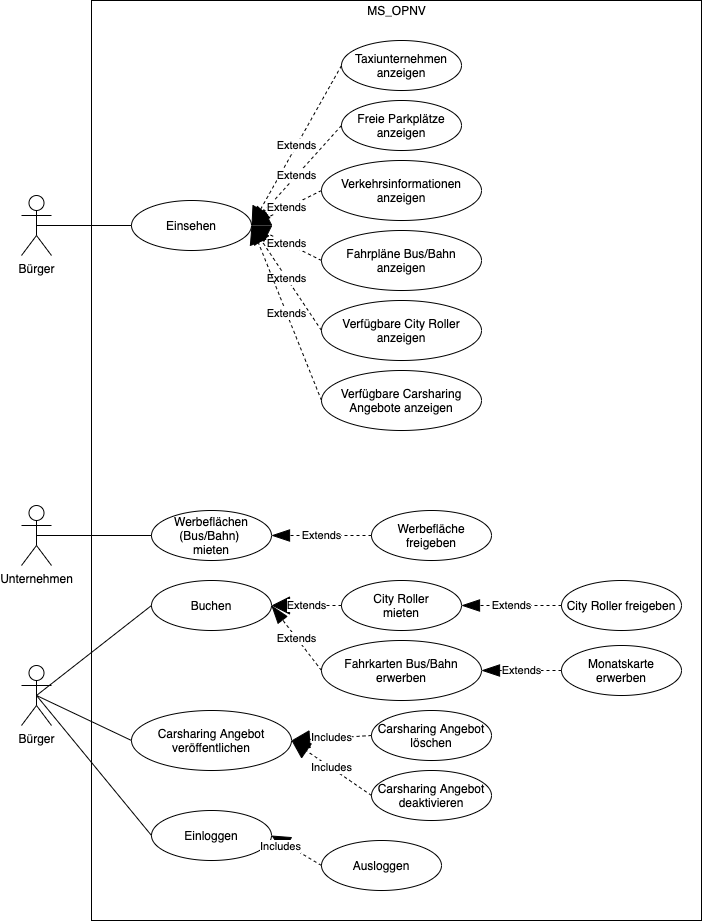
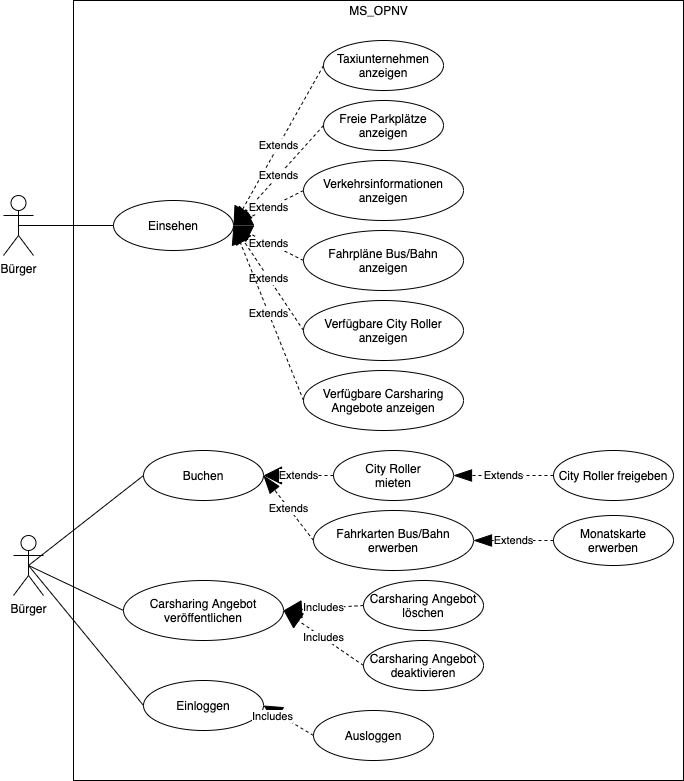
add Mockups, SoftwareArch

diff --git a/docs/alexander_bergmann/Spezifikation_OPNV.md b/docs/alexander_bergmann/Spezifikation_OPNV.md
@@ -27,7 +27,7 @@ Ziel dieses Microservices ist die Bereitstellung einer einheitlichen Plattform i
 
 ## 2.2 Funktionale Anforderungen
 
-![UseCases Rettungsdienst](./img/UseCase.png)
+![UseCases Rettungsdienst](img/UseCase.png)
 
 
 
@@ -35,14 +35,17 @@ Ziel dieses Microservices ist die Bereitstellung einer einheitlichen Plattform i
 
 ### 2.3.1 Rahmenbedingungen
 
-```java
-// TODO: Normen, Standards, Protokolle, Hardware, externe Vorgaben
-```
+- Kommunikation mit anderen Microservices:
+  - Asynchron: RabbitMQ
+  - Synchron: gRPC
+- Sicherheit
+  - Verwendung von HTTPS, TLS
 
 ### 2.3.2 Betriebsbedingungen
-```java
-// TODO: Vorgaben des Kunden (z.B. Web Browser / Betriebssystem Versionen, Programmiersprache)
-```
+
+- Drei Instanzen für die Microservice Architektur
+  - Docker-fähig Linux Distribution
+  - optimierte Darstellung für Mobilgeräte
 
 ### 2.3.3 Qualitätsmerkmale
 
@@ -72,6 +75,12 @@ Prüfbarkeit |-|X|-|-
 
 ![startpage](img/mockups/startpage.png)
 
+![schedule](img/mockups/schedule.png)
+
+![tickets](img/mockups/tickets.png)
+
+![carsharing](img/mockups/carsharing.png)
+
 ## 2.5 Anforderungen im Detail
 
 | **Als** | **möchte ich** | **so dass** | **Akzeptanz** |
@@ -82,8 +91,6 @@ Prüfbarkeit |-|X|-|-
 | Bürger | mir die Fahrpläne von Bus und Bahn anzeigen lassen | ich weiß wann meine Linie abfährt und wo sie hält | Muss |
 | Bürger | mir die verfügbaren City Roller der Stadt auf eine Karte anzeigen lassen | ich erkennen kann ob ein freier City Roller in meiner Nähe zu Verfügung steht | Kann |
 | Bürger | mir die Carsharing Angebote anderer Bürger anschauen | ich mir eine Mitfahrgelegenheit suchen kann | Kann |
-| Unternehmen | Werbeflächen (Bus/Bahn) mieten können | Werbung für mein Unternehmen in der Stadt veröffentlichen kann | Muss |
-| Unternehmen | gemietete Werbeflächen (Bus/Bahn) wieder Freigeben können | ich diese nicht mehr bezahlen muss | Muss |
 | Bürger | freie City Roller mieten und freigeben können | ich diese für einen bestimmten Zeitraum nutzen kann | Kann |
 | Bürger | Fahrkarten für Bus und Bahn erwerben können | ich die öffentlichen Verkehrsmittel nutzen kann | Muss |
 | Bürger | eine Monatskarte erwerben können | ich bei häufiger Nutzung des ÖPNV eine Vergünstigung erhalte | Muss |
@@ -95,13 +102,11 @@ Prüfbarkeit |-|X|-|-
 
 ## 3.1 Systemübersicht
 
-![SysArch](/Users/alex/Git/sgse/Spezifikation/docs/alexander_bergmann/img/SysArch.png)
+![SysArch](img/SysArch.png)
 
 ## 3.2 Softwarearchitektur
 
-```java
-// TODO: Darstellung von Softwarebausteinen (Module, Schichten, Komponenten)
-```
+![SysArchDetail](img/SysArchDetail.png)
 
 ## 3.3 Schnittstellen
 
@@ -145,6 +150,7 @@ Beispiel: Bearbeiten eines Carsharing Angebots
     "description": "Request to change a existing carsharing offer ",
     "fields": [
       {"name": "offer_id", "type": "number", "required": true},
+      {"name": "user_id", "type": "number", "required": true},
       {"name": "date", "type": "date", "required": false},
       {"name": "time", "type": "datetime", "required": false},
       {"name": "passengers", "type": "number", "required": false},
@@ -175,23 +181,9 @@ Beispiel: Bearbeiten eines Carsharing Angebots
 
 ...
 
-
-
-## 3.3.1 Ereignisse
-
-```java
-// TODO: In Event-gesteuerten Systemen: Definition der Ereignisse und deren Attribute
-```
-
 ## 3.4 Datenmodell 
 
-```java
-// TODO: 
-
-// Konzeptionelles Analyseklassendiagramm (logische Darstellung der Konzepte der Anwendungsdomäne)
-
-// Modellierung des physikalischen Datenmodells ER-Diagramm oder JSON-Schema
-```
+![Datamodel](img/Datamodel.png)
 
 ## 3.5 Abläufe
 
@@ -225,19 +217,8 @@ Beispiel: Bearbeiten eines Carsharing Angebots
 
 ## 4.1 Annahmen
 
-```java
-// TODO: 
-
-// Nicht durch den Kunden definierte spezifische Annahmen, Anforderungen und Abhängigkeiten
-
-// Verwendete Technologien (Programmiersprache, Frameworks, etc.)
-
-// Aufteilung in Repositories gemäß Software- und Systemarchitektur und Softwarebbausteinen
-
-// Einschränkungen, Betriebsbedingungen und Faktoren, die die Entwicklung beeinflussen (Betriebssysteme, Entwicklungsumgebung)
-
-// Interne Qualitätsanforderungen (z.B. Softwarequalitätsmerkmale wie z.B. Erweiterbarkeit)
-```
+- Verwendete Technologien: HTML, CSS, JavaScript, Vue.js, GO ,node.js, PostgreSQL
+- Aufteilung in Repositories gemäß Software- und Systemarchitektur und Softwarebbausteinen
 
 ## 4.2 Verantwortlichkeiten
 
